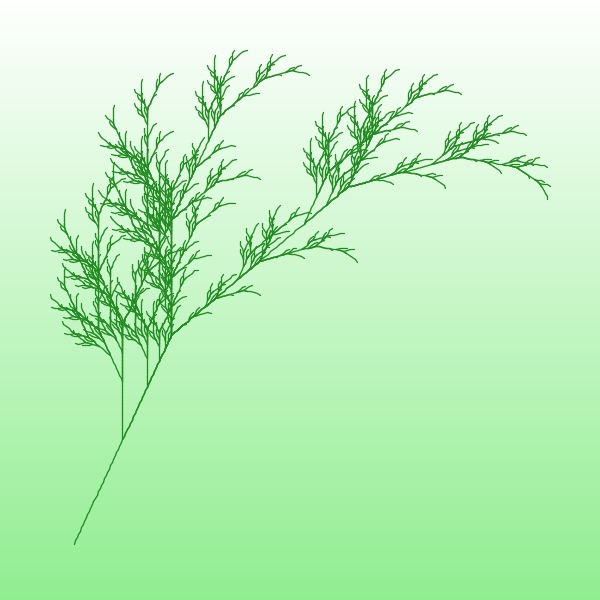
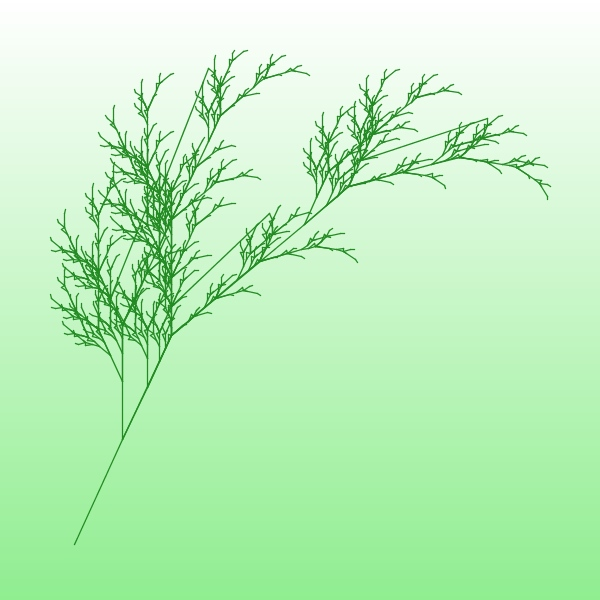
Greatly improved line smoothness and reduced line segment count
When we move the pen forward, if the pen is facing in the same direction
as last time we extend the line segment rather than adding a new one

diff --git a/docs/lsystems.turtle.html b/docs/lsystems.turtle.html
@@ -5,20 +5,23 @@
 <p>The central object is the pen state, produced by <code>(new-pen-state ...)</code>, which stores the current pen position and orientation, whether or not the pen is down, a stack for pushing and popping the pen position and orientation, and a list for storing the generated line segments, which are added by the function <code>(forward [pen-state by-pixels])</code> if the pen is down.</p>
 <p>The actual rendering is done by the <code>(draw-lines [canvas line-segments])</code> function.</p>
 <p>Line segments are of the form of a map <code>{ :from { :x :y } :to { :x :y } }</code>.</p></div></div><div class="public anchor" id="var-draw-lines"><h3>draw-lines</h3><div class="usage"><code>(draw-lines canvas line-segments)</code></div><div class="doc"><pre class="plaintext">Draw the line segments given by `line-segments` onto the canvas.
-</pre></div><div class="src-link"><a href="https://github.com/joebentley/lsystems/blob/master/src/lsystems/turtle.clj#L105">view source</a></div></div><div class="public anchor" id="var-execute-state-with-rules"><h3>execute-state-with-rules</h3><div class="usage"><code>(execute-state-with-rules state rules pen-state)</code></div><div class="doc"><pre class="plaintext">Take the L-system state, a rules map from L-system characters to functions that take and return
+</pre></div><div class="src-link"><a href="https://github.com/joebentley/lsystems/blob/master/src/lsystems/turtle.clj#L110">view source</a></div></div><div class="public anchor" id="var-execute-state-with-rules"><h3>execute-state-with-rules</h3><div class="usage"><code>(execute-state-with-rules state rules pen-state)</code></div><div class="doc"><pre class="plaintext">Take the L-system state, a rules map from L-system characters to functions that take and return
 the current pen state, and the initial pen state, and executes each character of the L-system
-state in turn, returning the pen state containing the finished line segments in (pen-state :lines).</pre></div><div class="src-link"><a href="https://github.com/joebentley/lsystems/blob/master/src/lsystems/turtle.clj#L93">view source</a></div></div><div class="public anchor" id="var-fit-line-segments-to-screen"><h3>fit-line-segments-to-screen</h3><div class="usage"><code>(fit-line-segments-to-screen width height line-segments &amp; {:keys [padding], :or {padding 0}})</code></div><div class="doc"><pre class="plaintext">Resize and move all line segments so that they fit on screen. Can optionally pass :padding keyword
-to pad figure on every side of screen.</pre></div><div class="src-link"><a href="https://github.com/joebentley/lsystems/blob/master/src/lsystems/turtle.clj#L137">view source</a></div></div><div class="public anchor" id="var-forward"><h3>forward</h3><div class="usage"><code>(forward pen-state by-pixels)</code></div><div class="doc"><pre class="plaintext">Move the pen forward by `by-pixels` in the direction specified by (pen-state :facing), adding a line segment
-to (pen-state :lines) if the pen is down. Returns the updated pen-state.</pre></div><div class="src-link"><a href="https://github.com/joebentley/lsystems/blob/master/src/lsystems/turtle.clj#L49">view source</a></div></div><div class="public anchor" id="var-get-pos-and-angle"><h3>get-pos-and-angle</h3><div class="usage"><code>(get-pos-and-angle pen-state)</code></div><div class="doc"><pre class="plaintext">Get the position and facing angle from the pen state.
-</pre></div><div class="src-link"><a href="https://github.com/joebentley/lsystems/blob/master/src/lsystems/turtle.clj#L36">view source</a></div></div><div class="public anchor" id="var-make-canvas-and-window"><h3>make-canvas-and-window</h3><div class="usage"><code>(make-canvas-and-window width height window-name)</code></div><div class="doc"><pre class="plaintext"></pre></div><div class="src-link"><a href="https://github.com/joebentley/lsystems/blob/master/src/lsystems/turtle.clj#L111">view source</a></div></div><div class="public anchor" id="var-new-line-segment"><h3>new-line-segment</h3><div class="usage"><code>(new-line-segment from-x from-y to-x to-y)</code></div><div class="doc"><pre class="plaintext">Create a new line segment.
-</pre></div><div class="src-link"><a href="https://github.com/joebentley/lsystems/blob/master/src/lsystems/turtle.clj#L44">view source</a></div></div><div class="public anchor" id="var-new-pen-state"><h3>new-pen-state</h3><div class="usage"><code>(new-pen-state x y &amp; {:keys [facing pen-is-down?], :or {facing 0, pen-is-down? true}})</code></div><div class="doc"><pre class="plaintext">Creates a new pen state object. Keeps track of the pens current position, its orientation, whether or not it is
+state in turn, returning the pen state containing the finished line segments in (pen-state :lines).</pre></div><div class="src-link"><a href="https://github.com/joebentley/lsystems/blob/master/src/lsystems/turtle.clj#L98">view source</a></div></div><div class="public anchor" id="var-fit-line-segments-to-screen"><h3>fit-line-segments-to-screen</h3><div class="usage"><code>(fit-line-segments-to-screen width height line-segments &amp; {:keys [padding], :or {padding 0}})</code></div><div class="doc"><pre class="plaintext">Resize and move all line segments so that they fit on screen. Can optionally pass :padding keyword
+to pad figure on every side of screen.
+
+TODO: can I use transducers to speed this up? I need to profile it first.</pre></div><div class="src-link"><a href="https://github.com/joebentley/lsystems/blob/master/src/lsystems/turtle.clj#L142">view source</a></div></div><div class="public anchor" id="var-forward"><h3>forward</h3><div class="usage"><code>(forward pen-state by-pixels)</code></div><div class="doc"><pre class="plaintext">Move the pen forward by `by-pixels` in the direction specified by (pen-state :facing), adding a line segment
+to (pen-state :lines) if the pen is down. Returns the updated pen-state.
+If the pen is in same orientation (facing direction) as before, we extend the last line segment instead.</pre></div><div class="src-link"><a href="https://github.com/joebentley/lsystems/blob/master/src/lsystems/turtle.clj#L50">view source</a></div></div><div class="public anchor" id="var-get-pos-and-angle"><h3>get-pos-and-angle</h3><div class="usage"><code>(get-pos-and-angle pen-state)</code></div><div class="doc"><pre class="plaintext">Get the position and facing angle from the pen state.
+</pre></div><div class="src-link"><a href="https://github.com/joebentley/lsystems/blob/master/src/lsystems/turtle.clj#L37">view source</a></div></div><div class="public anchor" id="var-make-canvas-and-window"><h3>make-canvas-and-window</h3><div class="usage"><code>(make-canvas-and-window width height window-name)</code></div><div class="doc"><pre class="plaintext"></pre></div><div class="src-link"><a href="https://github.com/joebentley/lsystems/blob/master/src/lsystems/turtle.clj#L116">view source</a></div></div><div class="public anchor" id="var-new-line-segment"><h3>new-line-segment</h3><div class="usage"><code>(new-line-segment from-x from-y to-x to-y)</code></div><div class="doc"><pre class="plaintext">Create a new line segment.
+</pre></div><div class="src-link"><a href="https://github.com/joebentley/lsystems/blob/master/src/lsystems/turtle.clj#L45">view source</a></div></div><div class="public anchor" id="var-new-pen-state"><h3>new-pen-state</h3><div class="usage"><code>(new-pen-state x y &amp; {:keys [facing pen-is-down?], :or {facing 0, pen-is-down? true}})</code></div><div class="doc"><pre class="plaintext">Creates a new pen state object. Keeps track of the pens current position, its orientation, whether or not it is
 down, a stack for pushing and popping the current position and orientation, and a list for storing calculated line
-segments to be rendered later.</pre></div><div class="src-link"><a href="https://github.com/joebentley/lsystems/blob/master/src/lsystems/turtle.clj#L23">view source</a></div></div><div class="public anchor" id="var-optimize-line-segments"><h3>optimize-line-segments</h3><div class="usage"><code>(optimize-line-segments line-segments)</code></div><div class="doc"><pre class="plaintext"></pre></div><div class="src-link"><a href="https://github.com/joebentley/lsystems/blob/master/src/lsystems/turtle.clj#L161">view source</a></div></div><div class="public anchor" id="var-pen-down"><h3>pen-down</h3><div class="usage"><code>(pen-down pen-state)</code></div><div class="doc"><pre class="plaintext">Forward will draw lines, as well as moving the cursor.
-</pre></div><div class="src-link"><a href="https://github.com/joebentley/lsystems/blob/master/src/lsystems/turtle.clj#L74">view source</a></div></div><div class="public anchor" id="var-pen-up"><h3>pen-up</h3><div class="usage"><code>(pen-up pen-state)</code></div><div class="doc"><pre class="plaintext">Forward will no longer draw lines, it will just move the cursor.
-</pre></div><div class="src-link"><a href="https://github.com/joebentley/lsystems/blob/master/src/lsystems/turtle.clj#L69">view source</a></div></div><div class="public anchor" id="var-pop-pos-and-angle"><h3>pop-pos-and-angle</h3><div class="usage"><code>(pop-pos-and-angle pen-state)</code></div><div class="doc"><pre class="plaintext">Pop the pens position and facing direction off the stack and set the current position and facing angle to it.
-</pre></div><div class="src-link"><a href="https://github.com/joebentley/lsystems/blob/master/src/lsystems/turtle.clj#L85">view source</a></div></div><div class="public anchor" id="var-push-pos-and-angle"><h3>push-pos-and-angle</h3><div class="usage"><code>(push-pos-and-angle pen-state)</code></div><div class="doc"><pre class="plaintext">Push the pens position and facing direction onto the stack.
-</pre></div><div class="src-link"><a href="https://github.com/joebentley/lsystems/blob/master/src/lsystems/turtle.clj#L79">view source</a></div></div><div class="public anchor" id="var-rotate"><h3>rotate</h3><div class="usage"><code>(rotate pen-state by-angle)</code></div><div class="doc"><pre class="plaintext">Rotate the pen's facing direction and return the updated state.
-</pre></div><div class="src-link"><a href="https://github.com/joebentley/lsystems/blob/master/src/lsystems/turtle.clj#L64">view source</a></div></div><div class="public anchor" id="var-setup-window-and-execute-state"><h3>setup-window-and-execute-state</h3><div class="usage"><code>(setup-window-and-execute-state state rules &amp; {:keys [name width height initial-x initial-y facing canvas-function auto-resize? auto-resize-padding export-file-name], :or {canvas-function identity, height 600, initial-y 300, auto-resize? true, name "L-system", facing 0, width 600, auto-resize-padding 100, export-file-name nil, initial-x 300}})</code></div><div class="doc"><div class="markdown"><p>Setup a window and canvas and pen-state with given options and execute a given L-system state.</p>
+segments to be rendered later.</pre></div><div class="src-link"><a href="https://github.com/joebentley/lsystems/blob/master/src/lsystems/turtle.clj#L23">view source</a></div></div><div class="public anchor" id="var-optimize-line-segments"><h3>optimize-line-segments</h3><div class="usage"><code>(optimize-line-segments line-segments)</code></div><div class="doc"><pre class="plaintext"></pre></div><div class="src-link"><a href="https://github.com/joebentley/lsystems/blob/master/src/lsystems/turtle.clj#L168">view source</a></div></div><div class="public anchor" id="var-pen-down"><h3>pen-down</h3><div class="usage"><code>(pen-down pen-state)</code></div><div class="doc"><pre class="plaintext">Forward will draw lines, as well as moving the cursor.
+</pre></div><div class="src-link"><a href="https://github.com/joebentley/lsystems/blob/master/src/lsystems/turtle.clj#L79">view source</a></div></div><div class="public anchor" id="var-pen-up"><h3>pen-up</h3><div class="usage"><code>(pen-up pen-state)</code></div><div class="doc"><pre class="plaintext">Forward will no longer draw lines, it will just move the cursor.
+</pre></div><div class="src-link"><a href="https://github.com/joebentley/lsystems/blob/master/src/lsystems/turtle.clj#L74">view source</a></div></div><div class="public anchor" id="var-pop-pos-and-angle"><h3>pop-pos-and-angle</h3><div class="usage"><code>(pop-pos-and-angle pen-state)</code></div><div class="doc"><pre class="plaintext">Pop the pens position and facing direction off the stack and set the current position and facing angle to it.
+</pre></div><div class="src-link"><a href="https://github.com/joebentley/lsystems/blob/master/src/lsystems/turtle.clj#L90">view source</a></div></div><div class="public anchor" id="var-push-pos-and-angle"><h3>push-pos-and-angle</h3><div class="usage"><code>(push-pos-and-angle pen-state)</code></div><div class="doc"><pre class="plaintext">Push the pens position and facing direction onto the stack.
+</pre></div><div class="src-link"><a href="https://github.com/joebentley/lsystems/blob/master/src/lsystems/turtle.clj#L84">view source</a></div></div><div class="public anchor" id="var-rotate"><h3>rotate</h3><div class="usage"><code>(rotate pen-state by-angle)</code></div><div class="doc"><pre class="plaintext">Rotate the pen's facing direction and return the updated state.
+</pre></div><div class="src-link"><a href="https://github.com/joebentley/lsystems/blob/master/src/lsystems/turtle.clj#L69">view source</a></div></div><div class="public anchor" id="var-setup-window-and-execute-state"><h3>setup-window-and-execute-state</h3><div class="usage"><code>(setup-window-and-execute-state state rules &amp; {:keys [name width height initial-x initial-y facing canvas-function auto-resize? auto-resize-padding export-file-name], :or {canvas-function identity, height 600, initial-y 300, auto-resize? true, name "L-system", facing 0, width 600, auto-resize-padding 100, export-file-name nil, initial-x 300}})</code></div><div class="doc"><div class="markdown"><p>Setup a window and canvas and pen-state with given options and execute a given L-system state.</p>
 <p>The :canvas-function key should be a function that takes a canvas object and can be used to do extra drawing or changing the canvas settings.</p>
 <p>Use the :auto-resize? key along with :auto-resize-padding to automatically resize the drawn figure to fit on the screen.</p>
 <p>Description of all keys:</p>
@@ -31,4 +34,4 @@ segments to be rendered later.</pre></div><div class="src-link"><a href="https:/
   <li><code>:auto-resize?</code> boolean, whether or not to automatically fit the drawing to the canvas. default <code>true</code></li>
   <li><code>:auto-resize-padding</code> integer, number of pixels padding when fitting the drawing to the canvas. default 100</li>
   <li><code>:export-file-name</code> string, file name to save the image at, doesn’t save if <code>nil</code>. default <code>nil</code></li>
-</ul></div></div><div class="src-link"><a href="https://github.com/joebentley/lsystems/blob/master/src/lsystems/turtle.clj#L166">view source</a></div></div></div></body></html>
+</ul></div></div><div class="src-link"><a href="https://github.com/joebentley/lsystems/blob/master/src/lsystems/turtle.clj#L174">view source</a></div></div></div></body></html>

diff --git a/docs/index.html b/docs/index.html
@@ -1,3 +1,3 @@
 <!DOCTYPE html PUBLIC ""
     "">
-<html><head><meta charset="UTF-8" /><title>Lsystems 0.1.0-SNAPSHOT</title><script src="https://polyfill.io/v3/polyfill.min.js?features=es6"></script><script id="MathJax-script" async="true" src="https://cdn.jsdelivr.net/npm/mathjax@3/es5/tex-mml-chtml.js"></script><link rel="stylesheet" type="text/css" href="css/default.css" /><link rel="stylesheet" type="text/css" href="css/highlight.css" /><script type="text/javascript" src="js/highlight.min.js"></script><script type="text/javascript" src="js/jquery.min.js"></script><script type="text/javascript" src="js/page_effects.js"></script><script>hljs.initHighlightingOnLoad();</script></head><body><div id="header"><h2>Generated by <a href="https://github.com/weavejester/codox">Codox</a></h2><h1><a href="index.html"><span class="project-title"><span class="project-name">Lsystems</span> <span class="project-version">0.1.0-SNAPSHOT</span></span></a></h1></div><div class="sidebar primary"><h3 class="no-link"><span class="inner">Project</span></h3><ul class="index-link"><li class="depth-1 current"><a href="index.html"><div class="inner">Index</div></a></li></ul><h3 class="no-link"><span class="inner">Topics</span></h3><ul><li class="depth-1 "><a href="intro.html"><div class="inner"><span>Basic L-systems overview</span></div></a></li></ul><h3 class="no-link"><span class="inner">Namespaces</span></h3><ul><li class="depth-1"><div class="no-link"><div class="inner"><span class="tree"><span class="top"></span><span class="bottom"></span></span><span>lsystems</span></div></div></li><li class="depth-2 branch"><a href="lsystems.core.html"><div class="inner"><span class="tree"><span class="top"></span><span class="bottom"></span></span><span>core</span></div></a></li><li class="depth-2 branch"><a href="lsystems.examples.html"><div class="inner"><span class="tree"><span class="top"></span><span class="bottom"></span></span><span>examples</span></div></a></li><li class="depth-2 branch"><a href="lsystems.turtle.html"><div class="inner"><span class="tree"><span class="top"></span><span class="bottom"></span></span><span>turtle</span></div></a></li><li class="depth-2"><a href="lsystems.utils.html"><div class="inner"><span class="tree"><span class="top"></span><span class="bottom"></span></span><span>utils</span></div></a></li></ul></div><div class="namespace-index" id="content"><h1><span class="project-title"><span class="project-name">Lsystems</span> <span class="project-version">0.1.0-SNAPSHOT</span></span></h1><h5 class="license">Released under the <a href="https://www.eclipse.org/legal/epl-2.0/">EPL-2.0 OR GPL-2.0-or-later WITH Classpath-exception-2.0</a></h5><div class="doc"><p>Small and simple L-systems implementation in Clojure.</p></div><h2>Installation</h2><p>To install, add the following dependency to your project or build file:</p><pre class="deps">[lsystems "0.1.0-SNAPSHOT"]</pre><h2>Topics</h2><ul class="topics"><li><a href="intro.html">Basic L-systems overview</a></li></ul><h2>Namespaces</h2><div class="namespace"><h3><a href="lsystems.core.html">lsystems.core</a></h3><div class="doc"><pre class="plaintext"></pre></div><div class="index"><p>Public variables and functions:</p><ul><li> <a href="lsystems.core.html#var-add-production">add-production</a> </li><li> <a href="lsystems.core.html#var-bind-productions">bind-productions</a> </li><li> <a href="lsystems.core.html#var-combine-keywords">combine-keywords</a> </li><li> <a href="lsystems.core.html#var-keyword-name">keyword-name</a> </li><li> <a href="lsystems.core.html#var-new-productions">new-productions</a> </li><li> <a href="lsystems.core.html#var-nth-step">nth-step</a> </li><li> <a href="lsystems.core.html#var-state-to-string">state-to-string</a> </li><li> <a href="lsystems.core.html#var-step">step</a> </li><li> <a href="lsystems.core.html#var-step-with-productions">step-with-productions</a> </li><li> <a href="lsystems.core.html#var-string-to-keywords">string-to-keywords</a> </li></ul></div></div><div class="namespace"><h3><a href="lsystems.examples.html">lsystems.examples</a></h3><div class="doc"><pre class="plaintext"></pre></div><div class="index"><p>Public variables and functions:</p><ul><li> <a href="lsystems.examples.html#var--main">-main</a> </li><li> <a href="lsystems.examples.html#var-all-examples">all-examples</a> </li><li> <a href="lsystems.examples.html#var-dragon-curve">dragon-curve</a> </li><li> <a href="lsystems.examples.html#var-fractal-binary-tree">fractal-binary-tree</a> </li><li> <a href="lsystems.examples.html#var-fractal-plant">fractal-plant</a> </li></ul></div></div><div class="namespace"><h3><a href="lsystems.turtle.html">lsystems.turtle</a></h3><div class="doc"><div class="markdown"><p>Everything to do with drawing the L-system to the screen.</p></div></div><div class="index"><p>Public variables and functions:</p><ul><li> <a href="lsystems.turtle.html#var-draw-lines">draw-lines</a> </li><li> <a href="lsystems.turtle.html#var-execute-state-with-rules">execute-state-with-rules</a> </li><li> <a href="lsystems.turtle.html#var-fit-line-segments-to-screen">fit-line-segments-to-screen</a> </li><li> <a href="lsystems.turtle.html#var-forward">forward</a> </li><li> <a href="lsystems.turtle.html#var-get-pos-and-angle">get-pos-and-angle</a> </li><li> <a href="lsystems.turtle.html#var-make-canvas-and-window">make-canvas-and-window</a> </li><li> <a href="lsystems.turtle.html#var-new-line-segment">new-line-segment</a> </li><li> <a href="lsystems.turtle.html#var-new-pen-state">new-pen-state</a> </li><li> <a href="lsystems.turtle.html#var-optimize-line-segments">optimize-line-segments</a> </li><li> <a href="lsystems.turtle.html#var-pen-down">pen-down</a> </li><li> <a href="lsystems.turtle.html#var-pen-up">pen-up</a> </li><li> <a href="lsystems.turtle.html#var-pop-pos-and-angle">pop-pos-and-angle</a> </li><li> <a href="lsystems.turtle.html#var-push-pos-and-angle">push-pos-and-angle</a> </li><li> <a href="lsystems.turtle.html#var-rotate">rotate</a> </li><li> <a href="lsystems.turtle.html#var-setup-window-and-execute-state">setup-window-and-execute-state</a> </li></ul></div></div><div class="namespace"><h3><a href="lsystems.utils.html">lsystems.utils</a></h3><div class="doc"><pre class="plaintext"></pre></div><div class="index"><p>Public variables and functions:</p><ul><li> <a href="lsystems.utils.html#var-log">log</a> </li></ul></div></div></div></body></html>
+<html><head><meta charset="UTF-8" /><title>Lsystems 0.1.0-SNAPSHOT</title><script src="https://polyfill.io/v3/polyfill.min.js?features=es6"></script><script id="MathJax-script" async="true" src="https://cdn.jsdelivr.net/npm/mathjax@3/es5/tex-mml-chtml.js"></script><link rel="stylesheet" type="text/css" href="css/default.css" /><link rel="stylesheet" type="text/css" href="css/highlight.css" /><script type="text/javascript" src="js/highlight.min.js"></script><script type="text/javascript" src="js/jquery.min.js"></script><script type="text/javascript" src="js/page_effects.js"></script><script>hljs.initHighlightingOnLoad();</script></head><body><div id="header"><h2>Generated by <a href="https://github.com/weavejester/codox">Codox</a></h2><h1><a href="index.html"><span class="project-title"><span class="project-name">Lsystems</span> <span class="project-version">0.1.0-SNAPSHOT</span></span></a></h1></div><div class="sidebar primary"><h3 class="no-link"><span class="inner">Project</span></h3><ul class="index-link"><li class="depth-1 current"><a href="index.html"><div class="inner">Index</div></a></li></ul><h3 class="no-link"><span class="inner">Topics</span></h3><ul><li class="depth-1 "><a href="intro.html"><div class="inner"><span>Basic L-systems overview</span></div></a></li></ul><h3 class="no-link"><span class="inner">Namespaces</span></h3><ul><li class="depth-1"><div class="no-link"><div class="inner"><span class="tree"><span class="top"></span><span class="bottom"></span></span><span>lsystems</span></div></div></li><li class="depth-2 branch"><a href="lsystems.core.html"><div class="inner"><span class="tree"><span class="top"></span><span class="bottom"></span></span><span>core</span></div></a></li><li class="depth-2 branch"><a href="lsystems.examples.html"><div class="inner"><span class="tree"><span class="top"></span><span class="bottom"></span></span><span>examples</span></div></a></li><li class="depth-2 branch"><a href="lsystems.turtle.html"><div class="inner"><span class="tree"><span class="top"></span><span class="bottom"></span></span><span>turtle</span></div></a></li><li class="depth-2"><a href="lsystems.utils.html"><div class="inner"><span class="tree"><span class="top"></span><span class="bottom"></span></span><span>utils</span></div></a></li></ul></div><div class="namespace-index" id="content"><h1><span class="project-title"><span class="project-name">Lsystems</span> <span class="project-version">0.1.0-SNAPSHOT</span></span></h1><h5 class="license">Released under the <a href="https://www.eclipse.org/legal/epl-2.0/">EPL-2.0 OR GPL-2.0-or-later WITH Classpath-exception-2.0</a></h5><div class="doc"><p>Small and simple L-systems implementation in Clojure.</p></div><h2>Installation</h2><p>To install, add the following dependency to your project or build file:</p><pre class="deps">[lsystems "0.1.0-SNAPSHOT"]</pre><h2>Topics</h2><ul class="topics"><li><a href="intro.html">Basic L-systems overview</a></li></ul><h2>Namespaces</h2><div class="namespace"><h3><a href="lsystems.core.html">lsystems.core</a></h3><div class="doc"><pre class="plaintext"></pre></div><div class="index"><p>Public variables and functions:</p><ul><li> <a href="lsystems.core.html#var-add-production">add-production</a> </li><li> <a href="lsystems.core.html#var-bind-productions">bind-productions</a> </li><li> <a href="lsystems.core.html#var-combine-keywords">combine-keywords</a> </li><li> <a href="lsystems.core.html#var-keyword-name">keyword-name</a> </li><li> <a href="lsystems.core.html#var-new-productions">new-productions</a> </li><li> <a href="lsystems.core.html#var-nth-step">nth-step</a> </li><li> <a href="lsystems.core.html#var-state-to-string">state-to-string</a> </li><li> <a href="lsystems.core.html#var-step">step</a> </li><li> <a href="lsystems.core.html#var-step-with-productions">step-with-productions</a> </li><li> <a href="lsystems.core.html#var-string-to-keywords">string-to-keywords</a> </li></ul></div></div><div class="namespace"><h3><a href="lsystems.examples.html">lsystems.examples</a></h3><div class="doc"><pre class="plaintext"></pre></div><div class="index"><p>Public variables and functions:</p><ul><li> <a href="lsystems.examples.html#var--main">-main</a> </li><li> <a href="lsystems.examples.html#var-all-examples">all-examples</a> </li><li> <a href="lsystems.examples.html#var-dragon-curve">dragon-curve</a> </li><li> <a href="lsystems.examples.html#var-fractal-binary-tree">fractal-binary-tree</a> </li><li> <a href="lsystems.examples.html#var-fractal-plant">fractal-plant</a> </li></ul></div></div><div class="namespace"><h3><a href="lsystems.turtle.html">lsystems.turtle</a></h3><div class="doc"><div class="markdown"><p>Everything to do with drawing the L-system to the screen.</p></div></div><div class="index"><p>Public variables and functions:</p><ul><li> <a href="lsystems.turtle.html#var-draw-lines">draw-lines</a> </li><li> <a href="lsystems.turtle.html#var-execute-state-with-rules">execute-state-with-rules</a> </li><li> <a href="lsystems.turtle.html#var-fit-line-segments-to-screen">fit-line-segments-to-screen</a> </li><li> <a href="lsystems.turtle.html#var-forward">forward</a> </li><li> <a href="lsystems.turtle.html#var-get-pos-and-angle">get-pos-and-angle</a> </li><li> <a href="lsystems.turtle.html#var-make-canvas-and-window">make-canvas-and-window</a> </li><li> <a href="lsystems.turtle.html#var-new-line-segment">new-line-segment</a> </li><li> <a href="lsystems.turtle.html#var-new-pen-state">new-pen-state</a> </li><li> <a href="lsystems.turtle.html#var-optimize-line-segments">optimize-line-segments</a> </li><li> <a href="lsystems.turtle.html#var-pen-down">pen-down</a> </li><li> <a href="lsystems.turtle.html#var-pen-up">pen-up</a> </li><li> <a href="lsystems.turtle.html#var-pop-pos-and-angle">pop-pos-and-angle</a> </li><li> <a href="lsystems.turtle.html#var-push-pos-and-angle">push-pos-and-angle</a> </li><li> <a href="lsystems.turtle.html#var-rotate">rotate</a> </li><li> <a href="lsystems.turtle.html#var-setup-window-and-execute-state">setup-window-and-execute-state</a> </li></ul></div></div><div class="namespace"><h3><a href="lsystems.utils.html">lsystems.utils</a></h3><div class="doc"><pre class="plaintext"></pre></div><div class="index"><p>Public variables and functions:</p><ul><li> <a href="lsystems.utils.html#var-approx-eq">approx-eq</a> </li><li> <a href="lsystems.utils.html#var-log">log</a> </li></ul></div></div></div></body></html>

diff --git a/docs/lsystems.utils.html b/docs/lsystems.utils.html
@@ -1,3 +1,3 @@
 <!DOCTYPE html PUBLIC ""
     "">
-<html><head><meta charset="UTF-8" /><title>lsystems.utils documentation</title><script src="https://polyfill.io/v3/polyfill.min.js?features=es6"></script><script id="MathJax-script" async="true" src="https://cdn.jsdelivr.net/npm/mathjax@3/es5/tex-mml-chtml.js"></script><link rel="stylesheet" type="text/css" href="css/default.css" /><link rel="stylesheet" type="text/css" href="css/highlight.css" /><script type="text/javascript" src="js/highlight.min.js"></script><script type="text/javascript" src="js/jquery.min.js"></script><script type="text/javascript" src="js/page_effects.js"></script><script>hljs.initHighlightingOnLoad();</script></head><body><div id="header"><h2>Generated by <a href="https://github.com/weavejester/codox">Codox</a></h2><h1><a href="index.html"><span class="project-title"><span class="project-name">Lsystems</span> <span class="project-version">0.1.0-SNAPSHOT</span></span></a></h1></div><div class="sidebar primary"><h3 class="no-link"><span class="inner">Project</span></h3><ul class="index-link"><li class="depth-1 "><a href="index.html"><div class="inner">Index</div></a></li></ul><h3 class="no-link"><span class="inner">Topics</span></h3><ul><li class="depth-1 "><a href="intro.html"><div class="inner"><span>Basic L-systems overview</span></div></a></li></ul><h3 class="no-link"><span class="inner">Namespaces</span></h3><ul><li class="depth-1"><div class="no-link"><div class="inner"><span class="tree"><span class="top"></span><span class="bottom"></span></span><span>lsystems</span></div></div></li><li class="depth-2 branch"><a href="lsystems.core.html"><div class="inner"><span class="tree"><span class="top"></span><span class="bottom"></span></span><span>core</span></div></a></li><li class="depth-2 branch"><a href="lsystems.examples.html"><div class="inner"><span class="tree"><span class="top"></span><span class="bottom"></span></span><span>examples</span></div></a></li><li class="depth-2 branch"><a href="lsystems.turtle.html"><div class="inner"><span class="tree"><span class="top"></span><span class="bottom"></span></span><span>turtle</span></div></a></li><li class="depth-2 current"><a href="lsystems.utils.html"><div class="inner"><span class="tree"><span class="top"></span><span class="bottom"></span></span><span>utils</span></div></a></li></ul></div><div class="sidebar secondary"><h3><a href="#top"><span class="inner">Public Vars</span></a></h3><ul><li class="depth-1"><a href="lsystems.utils.html#var-log"><div class="inner"><span>log</span></div></a></li></ul></div><div class="namespace-docs" id="content"><h1 class="anchor" id="top">lsystems.utils</h1><div class="doc"><pre class="plaintext"></pre></div><div class="public anchor" id="var-log"><h3>log</h3><div class="usage"><code>(log message)</code></div><div class="doc"><pre class="plaintext"></pre></div><div class="src-link"><a href="https://github.com/joebentley/lsystems/blob/master/src/lsystems/utils.clj#L4">view source</a></div></div></div></body></html>
+<html><head><meta charset="UTF-8" /><title>lsystems.utils documentation</title><script src="https://polyfill.io/v3/polyfill.min.js?features=es6"></script><script id="MathJax-script" async="true" src="https://cdn.jsdelivr.net/npm/mathjax@3/es5/tex-mml-chtml.js"></script><link rel="stylesheet" type="text/css" href="css/default.css" /><link rel="stylesheet" type="text/css" href="css/highlight.css" /><script type="text/javascript" src="js/highlight.min.js"></script><script type="text/javascript" src="js/jquery.min.js"></script><script type="text/javascript" src="js/page_effects.js"></script><script>hljs.initHighlightingOnLoad();</script></head><body><div id="header"><h2>Generated by <a href="https://github.com/weavejester/codox">Codox</a></h2><h1><a href="index.html"><span class="project-title"><span class="project-name">Lsystems</span> <span class="project-version">0.1.0-SNAPSHOT</span></span></a></h1></div><div class="sidebar primary"><h3 class="no-link"><span class="inner">Project</span></h3><ul class="index-link"><li class="depth-1 "><a href="index.html"><div class="inner">Index</div></a></li></ul><h3 class="no-link"><span class="inner">Topics</span></h3><ul><li class="depth-1 "><a href="intro.html"><div class="inner"><span>Basic L-systems overview</span></div></a></li></ul><h3 class="no-link"><span class="inner">Namespaces</span></h3><ul><li class="depth-1"><div class="no-link"><div class="inner"><span class="tree"><span class="top"></span><span class="bottom"></span></span><span>lsystems</span></div></div></li><li class="depth-2 branch"><a href="lsystems.core.html"><div class="inner"><span class="tree"><span class="top"></span><span class="bottom"></span></span><span>core</span></div></a></li><li class="depth-2 branch"><a href="lsystems.examples.html"><div class="inner"><span class="tree"><span class="top"></span><span class="bottom"></span></span><span>examples</span></div></a></li><li class="depth-2 branch"><a href="lsystems.turtle.html"><div class="inner"><span class="tree"><span class="top"></span><span class="bottom"></span></span><span>turtle</span></div></a></li><li class="depth-2 current"><a href="lsystems.utils.html"><div class="inner"><span class="tree"><span class="top"></span><span class="bottom"></span></span><span>utils</span></div></a></li></ul></div><div class="sidebar secondary"><h3><a href="#top"><span class="inner">Public Vars</span></a></h3><ul><li class="depth-1"><a href="lsystems.utils.html#var-approx-eq"><div class="inner"><span>approx-eq</span></div></a></li><li class="depth-1"><a href="lsystems.utils.html#var-log"><div class="inner"><span>log</span></div></a></li></ul></div><div class="namespace-docs" id="content"><h1 class="anchor" id="top">lsystems.utils</h1><div class="doc"><pre class="plaintext"></pre></div><div class="public anchor" id="var-approx-eq"><h3>approx-eq</h3><div class="usage"><code>(approx-eq a b)</code></div><div class="doc"><pre class="plaintext"></pre></div><div class="src-link"><a href="https://github.com/joebentley/lsystems/blob/master/src/lsystems/utils.clj#L7">view source</a></div></div><div class="public anchor" id="var-log"><h3>log</h3><div class="usage"><code>(log message)</code></div><div class="doc"><pre class="plaintext"></pre></div><div class="src-link"><a href="https://github.com/joebentley/lsystems/blob/master/src/lsystems/utils.clj#L4">view source</a></div></div></div></body></html>

diff --git a/README.md b/README.md
@@ -132,7 +132,7 @@ Produced image:
 
 * ~~Distribution/clojars~~
 * Stochastic/context-sensitive L-systems
-* Lines could do with smoothing. They look weird right now, probably because of being drawn as loads of individual lines
+* ~~Lines could do with smoothing. They look weird right now, probably because of being drawn as loads of individual lines~~
 * Write tests for `lsystems.turtle`
 * ~~Easy way to run examples~~
 * Performance profiling
